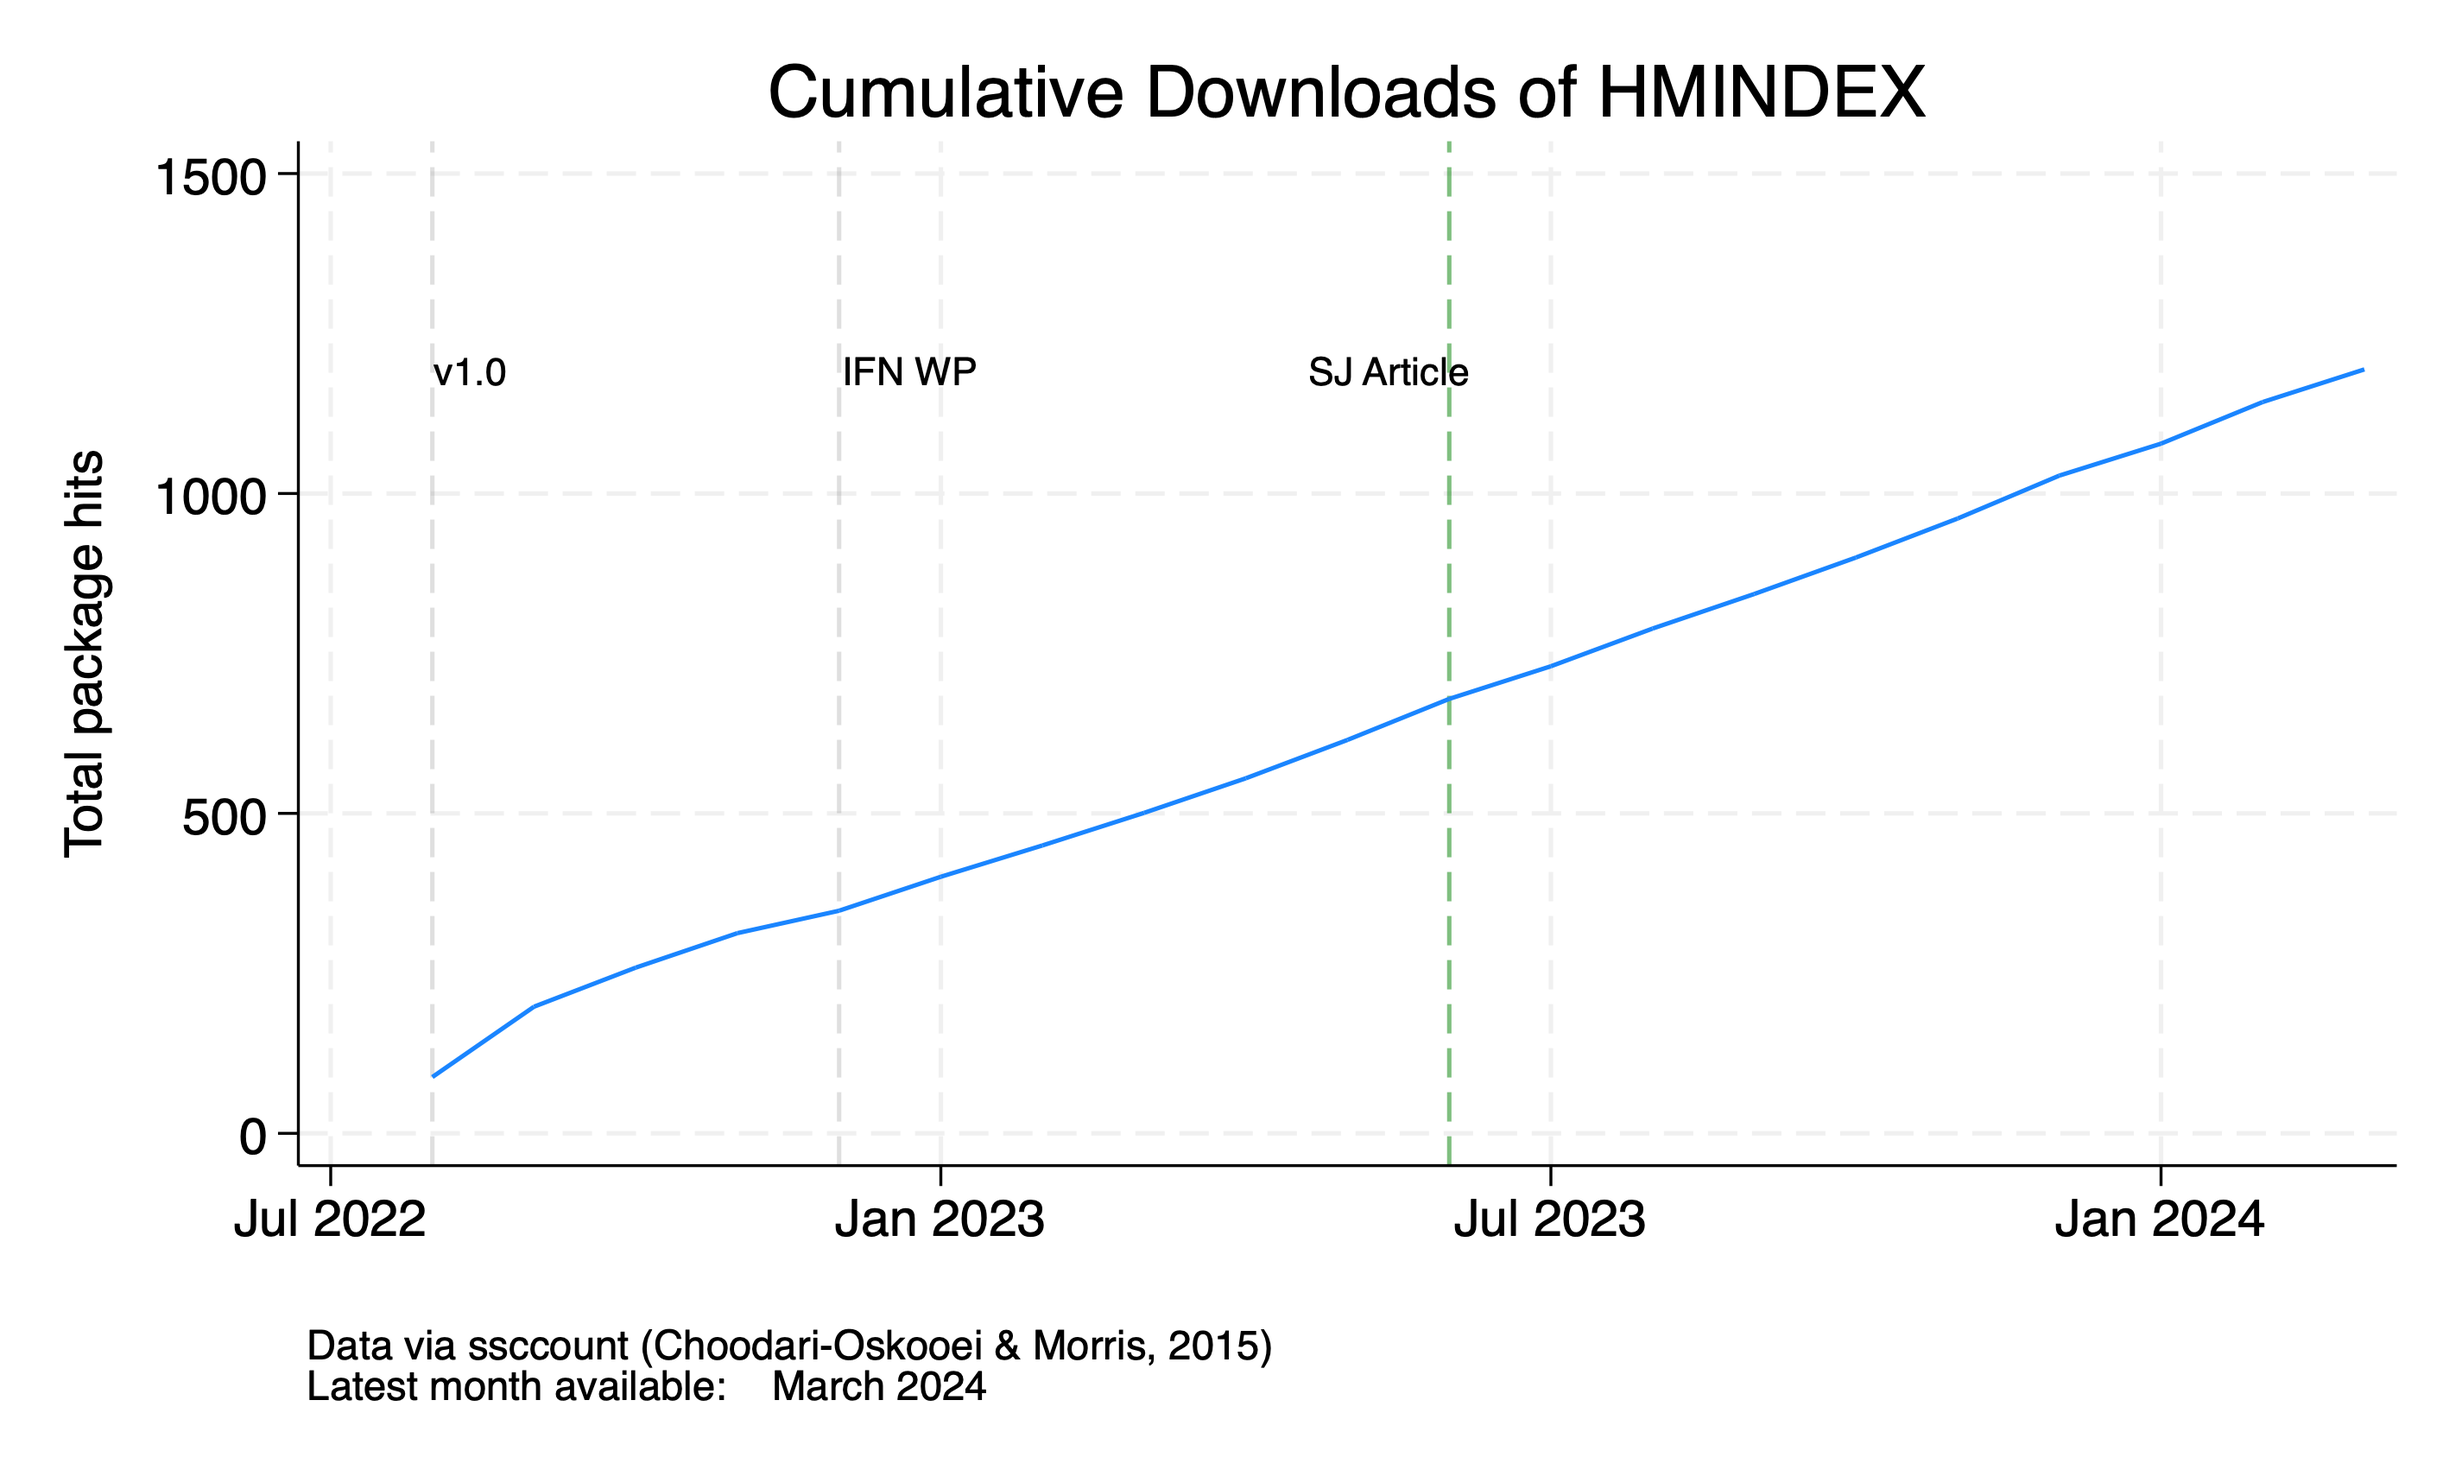
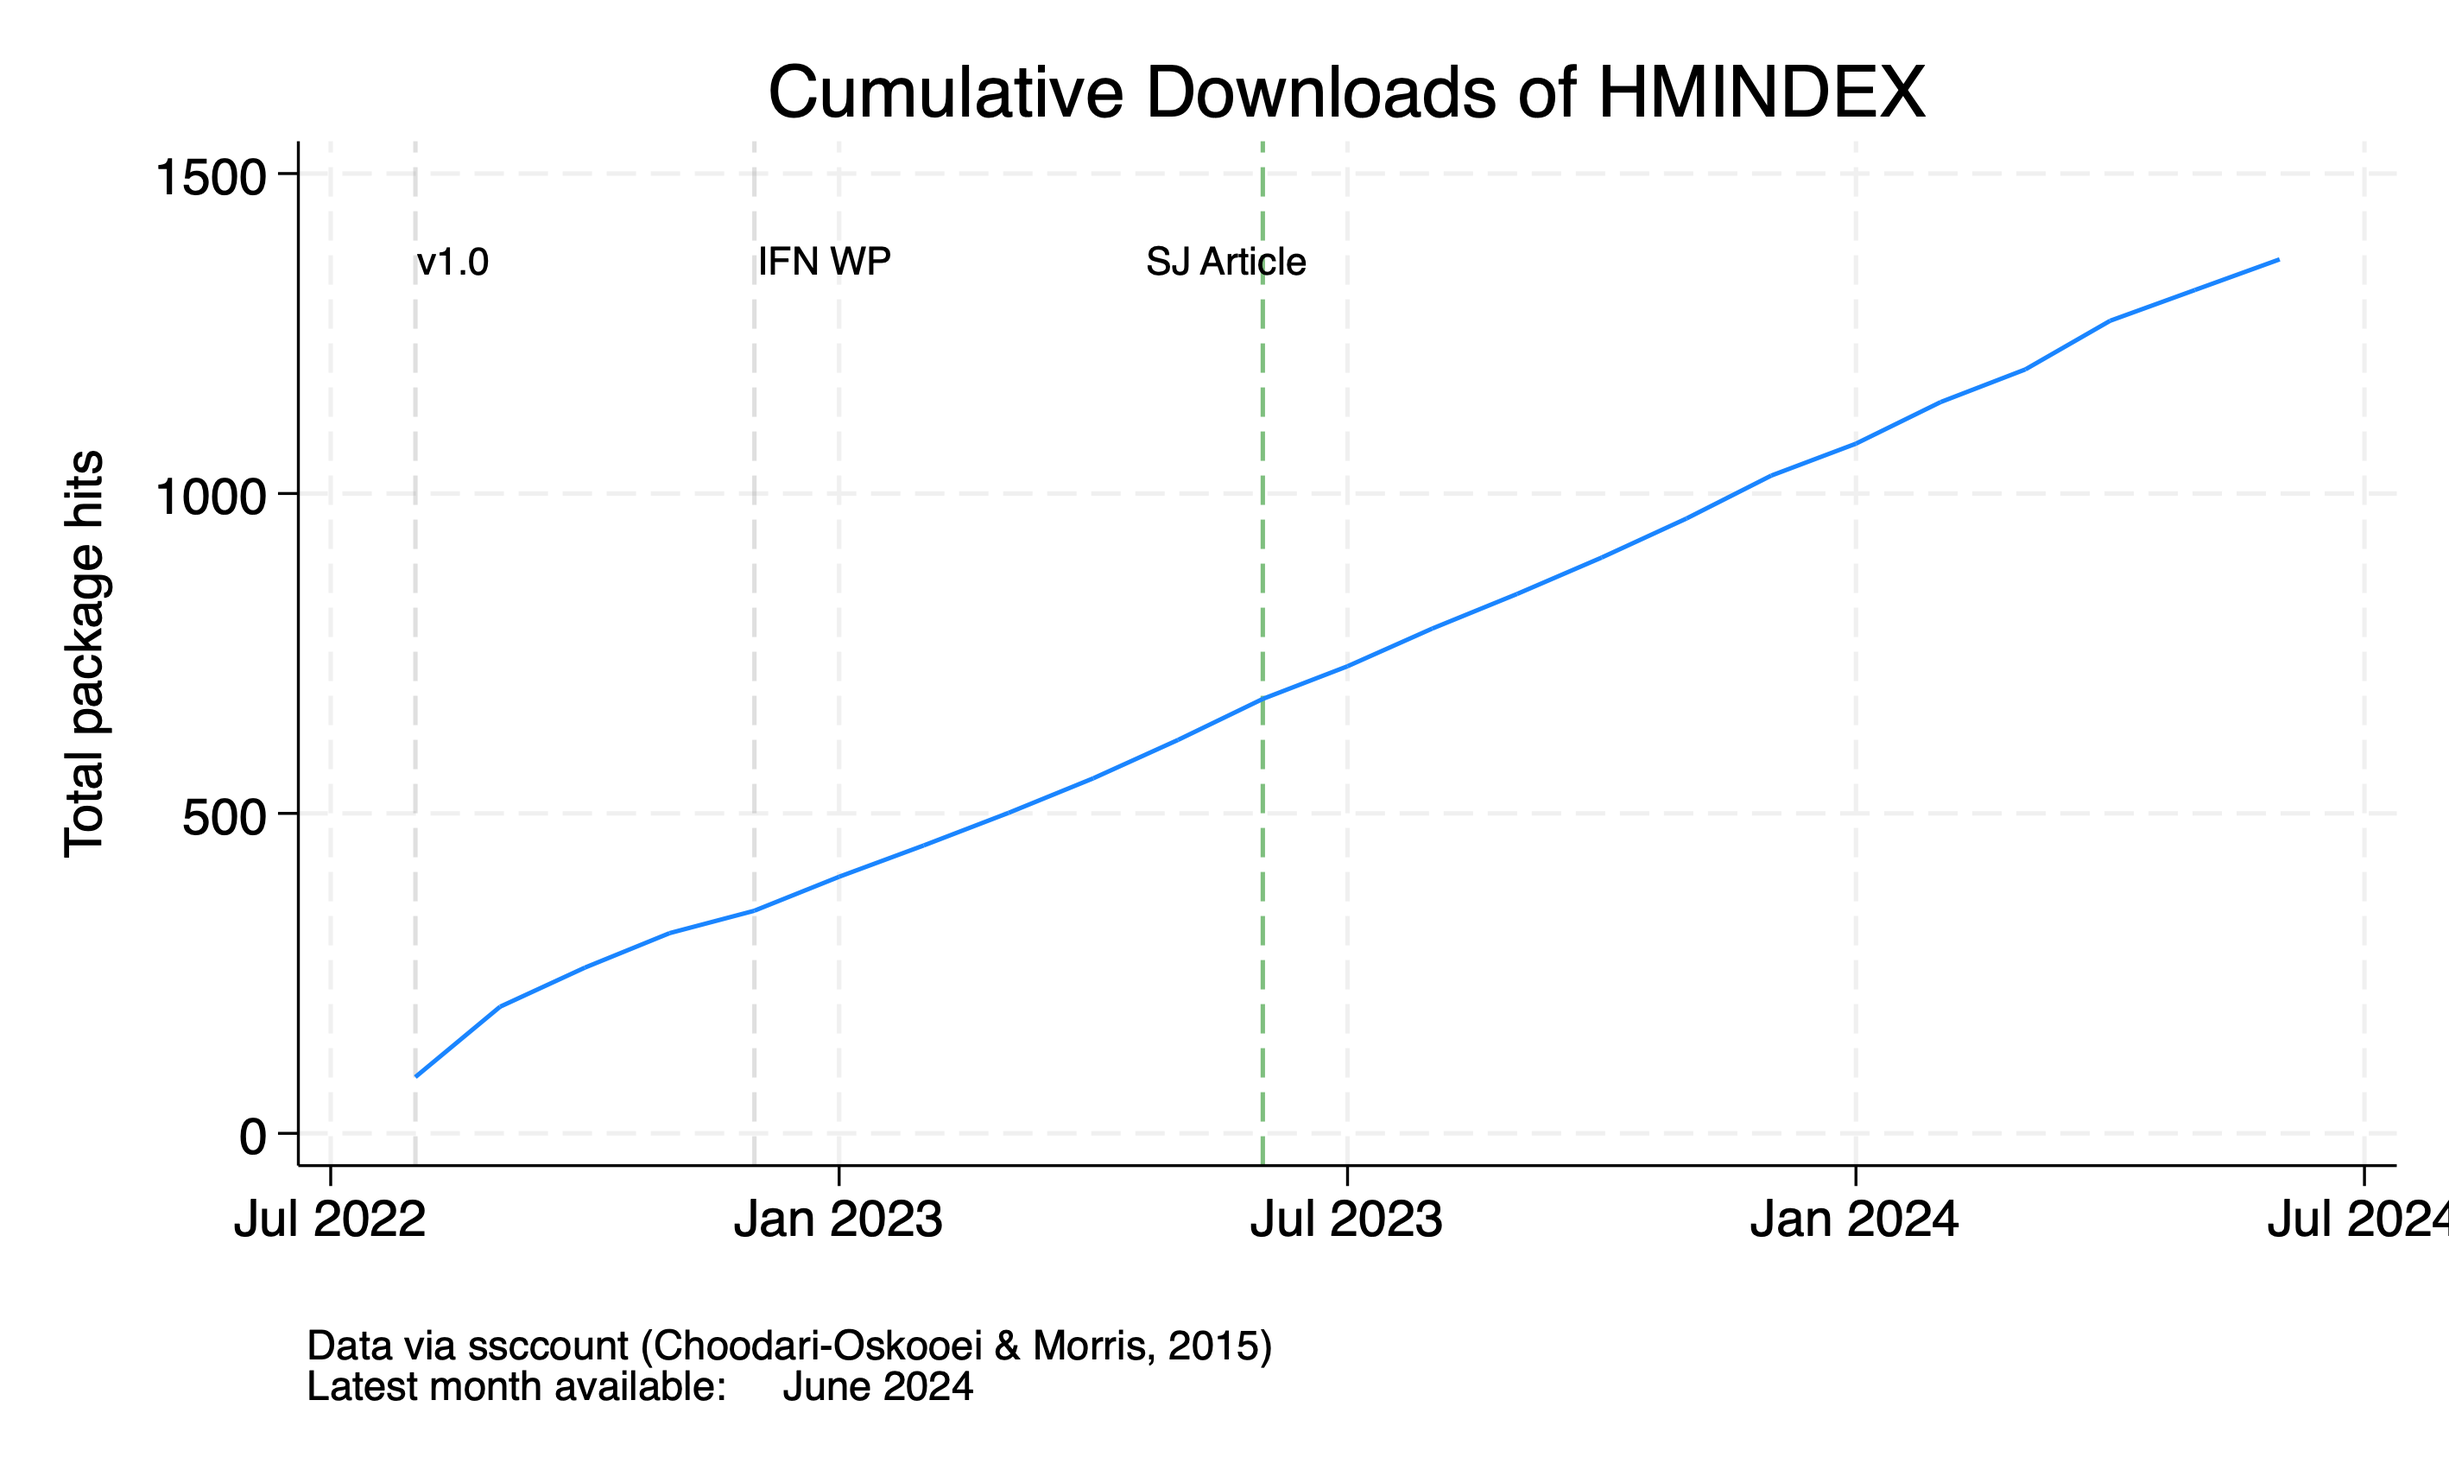
update npkghits

diff --git a/_posts/2022-07-01-rpaxioms.md b/_posts/2022-07-01-rpaxioms.md
@@ -17,7 +17,7 @@ household-level aggregate consumption data.
 ## Citation
 Demetry, M., Hjertstrand, P. and Polisson, M., 2022. Testing axioms of revealed preference in Stata. <i>The Stata Journal</i>, 22(2), pp.319-343.
 
-## Total downloads: 2,437
+## Total downloads: 2,648
 <img src="/assets/img/rpaxioms_cumulative_hits.png" alt="number of downloads" width="100%"/>
 
 <details>

diff --git a/_posts/2022-12-01-hmindex.md b/_posts/2022-12-01-hmindex.md
@@ -13,7 +13,7 @@ note introduces the _Stata_ command __hmindex__, which calculates the Houtman-Ma
 prices and observed choices of a consumer. The command is illustrated with an empirical application.
 
 
-## Total downloads: 1,194
+## Total downloads: 1,366
 <img src="/assets/img/hmindex_cumulative_hits.png" alt="number of downloads" width="100%"/>
 
 
